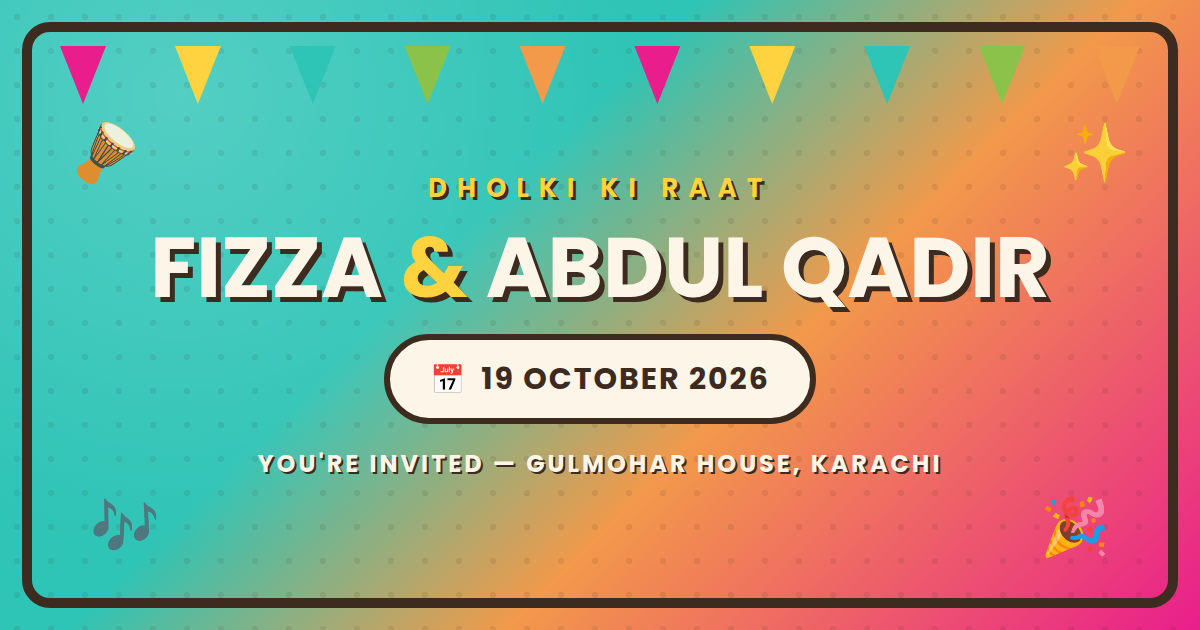
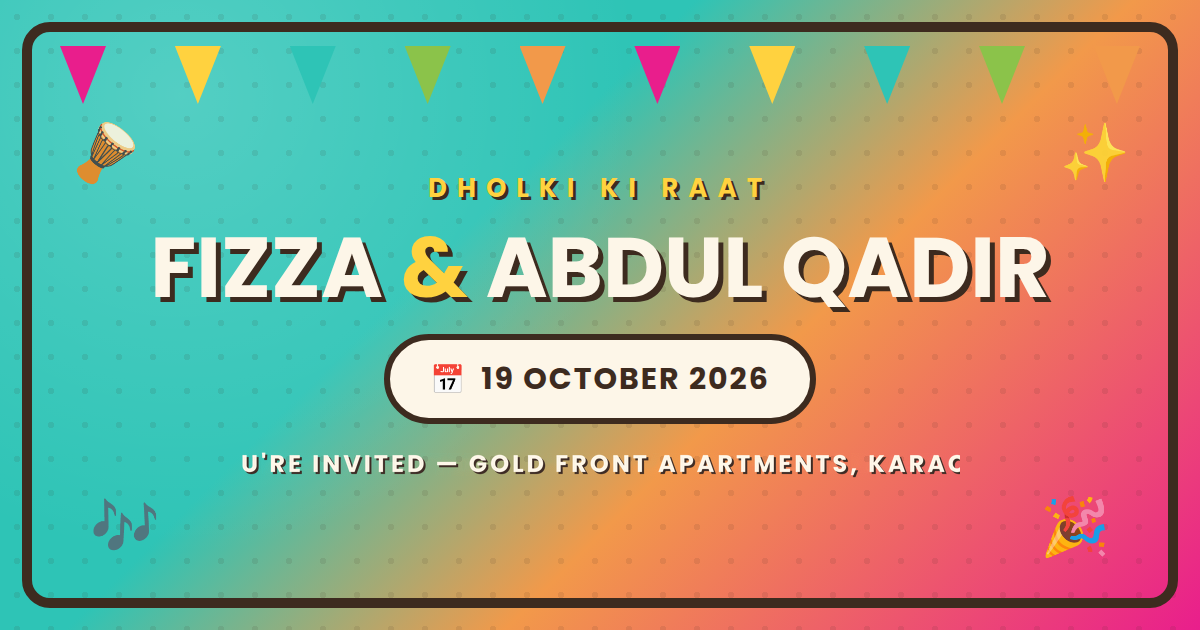
change og img

Changed region(s): [[0.185, 0.7238, 0.8017, 0.754]]

diff --git a/src/routes/index.tsx b/src/routes/index.tsx
@@ -213,7 +213,7 @@ function Invitation() {
       </section>
  
       <section className="note-scene scene" data-scene>
-        <div className="paper-note" data-gsap><div className="tape tape-one"/><div className="tape tape-two"/><span className="sticker">DHOLKI!</span><p className="urdu" dir="rtl">محبت سے بلایا ہے، ضرور آئیے گا!</p><h2>We would love to celebrate this special evening with you.</h2><strong>{DETAILS.bride} & {DETAILS.groom}</strong><div className="doodle">♫ ◌ ✿ ◌ ♫</div></div>
+        <div className="paper-note" data-gsap><div className="tape tape-one"/><div className="tape tape-two"/><span className="sticker">DHOLKI!</span><p className="urdu" dir="rtl">محبت سے بلایا ہے، ضرور آئیے گا!</p><h2>We would love to celebrate this special evening with you.</h2><div className="doodle">♫ ◌ ✿ ◌ ♫</div></div>
       </section>
  
       <section className="finale scene" data-scene>
